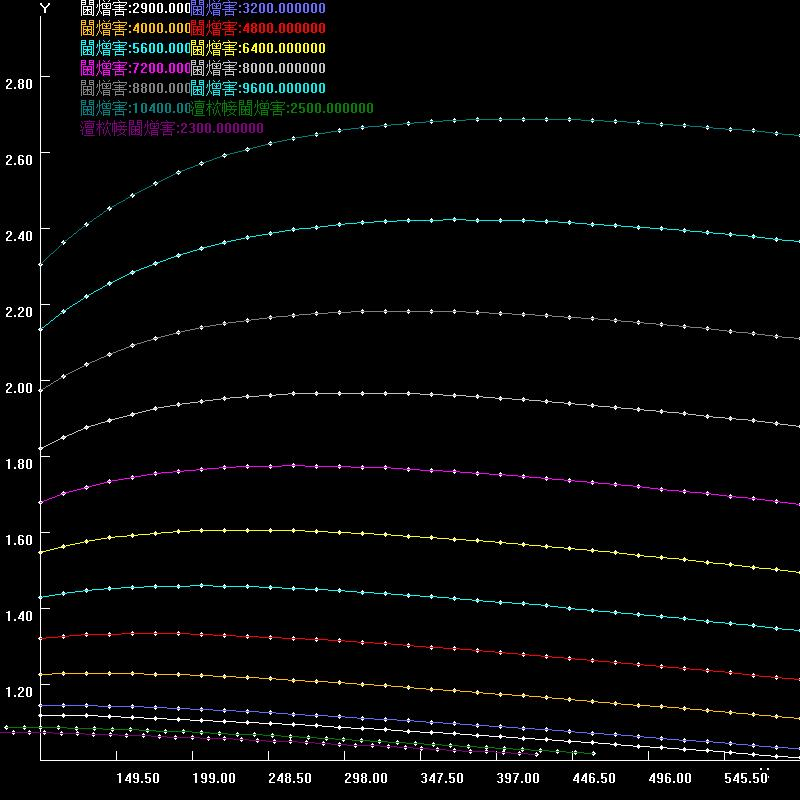
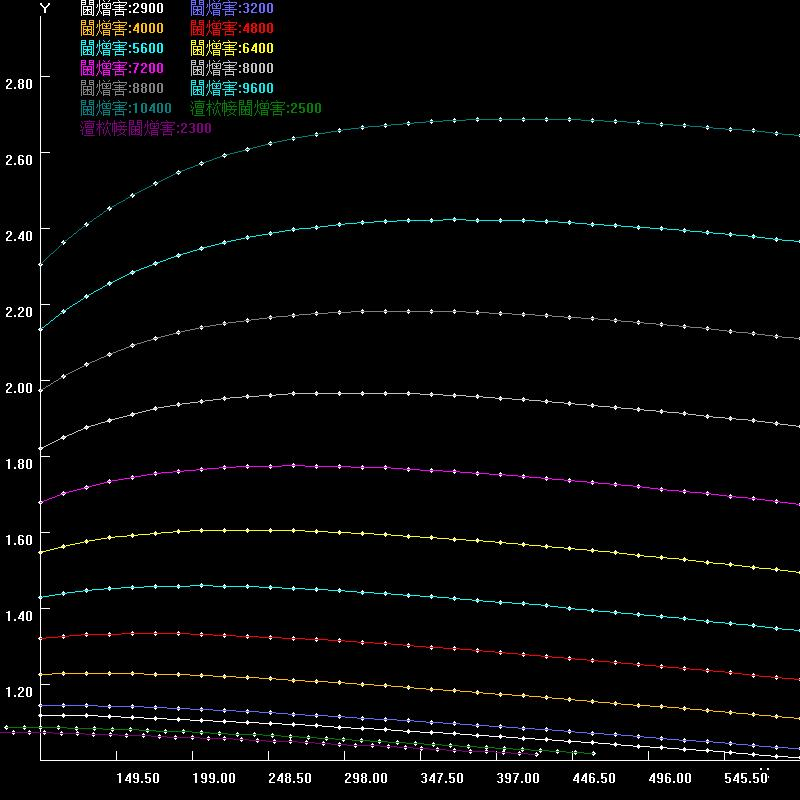
控制台本地化,wstring使用

diff --git a/learn_13/turbineLineInterplator/turbineLineInterplator/extraplotion.hpp b/learn_13/turbineLineInterplator/turbineLineInterplator/extraplotion.hpp
@@ -1,6 +1,6 @@
-#pragma execution_character_set("utf-8")
+//#pragma execution_character_set("utf-8")	// wstring不方便使用,算了
 #pragma once
-#include <xlnt/xlnt.hpp>	// 这个会与别的头文件冲突,放在最开始
+#include <xlnt/xlnt.hpp>					// 这个会与别的头文件冲突,放在最开始
 
 #include <iostream>
 #include <vector>
@@ -22,6 +22,7 @@ using std::cerr;
 using std::endl;
 using std::vector;
 using std::string;
+using std::wstring;
 using std::move;
 
 // 常数定义
@@ -30,10 +31,11 @@ static const double PI = acos(-1.0);			// 圆周率Π
 static const double g_adiabaticIndex = 1.667;	// 绝热指数 暂定1.667
 
 // 日志
-#define LOG(msg) log(msg, __FILE__, __LINE__)
-void log(string msg, string file, int line)
+#define LOG(msg) Log(msg, __FILE__, __LINE__)
+void Log(string msg, string file, int line)
 {
 	printf("LOG: [%s][file: %s][line: %d]\n", msg.c_str(), file.c_str(), line);
+
 }
 
 
@@ -300,7 +302,7 @@ public:
 		_coord.drawCoordinate();
 		for (auto& charline : _tclines) {
 			std::wstring s = L"速度:";
-			s += std::to_wstring(charline._speed);
+			s += std::to_wstring(int(charline._speed));
 			if (press) _coord.drawLine(charline._flows, charline._pressure_ratios, s);
 			if (effi) _coord.drawLine(charline._flows, charline._efficiencies, s);
 		}
@@ -321,7 +323,7 @@ public:
 		// 绘制相似理论外推特性线
 		for (auto& charline : _tclines_new) {
 			std::wstring s = L"外推速度:";
-			s += std::to_wstring(charline._speed);
+			s += std::to_wstring(int(charline._speed));
 			if (press) _coord.drawLine(charline._flows, charline._pressure_ratios, s);
 			if (effi) _coord.drawLine(charline._flows, charline._efficiencies, s);
 		}
